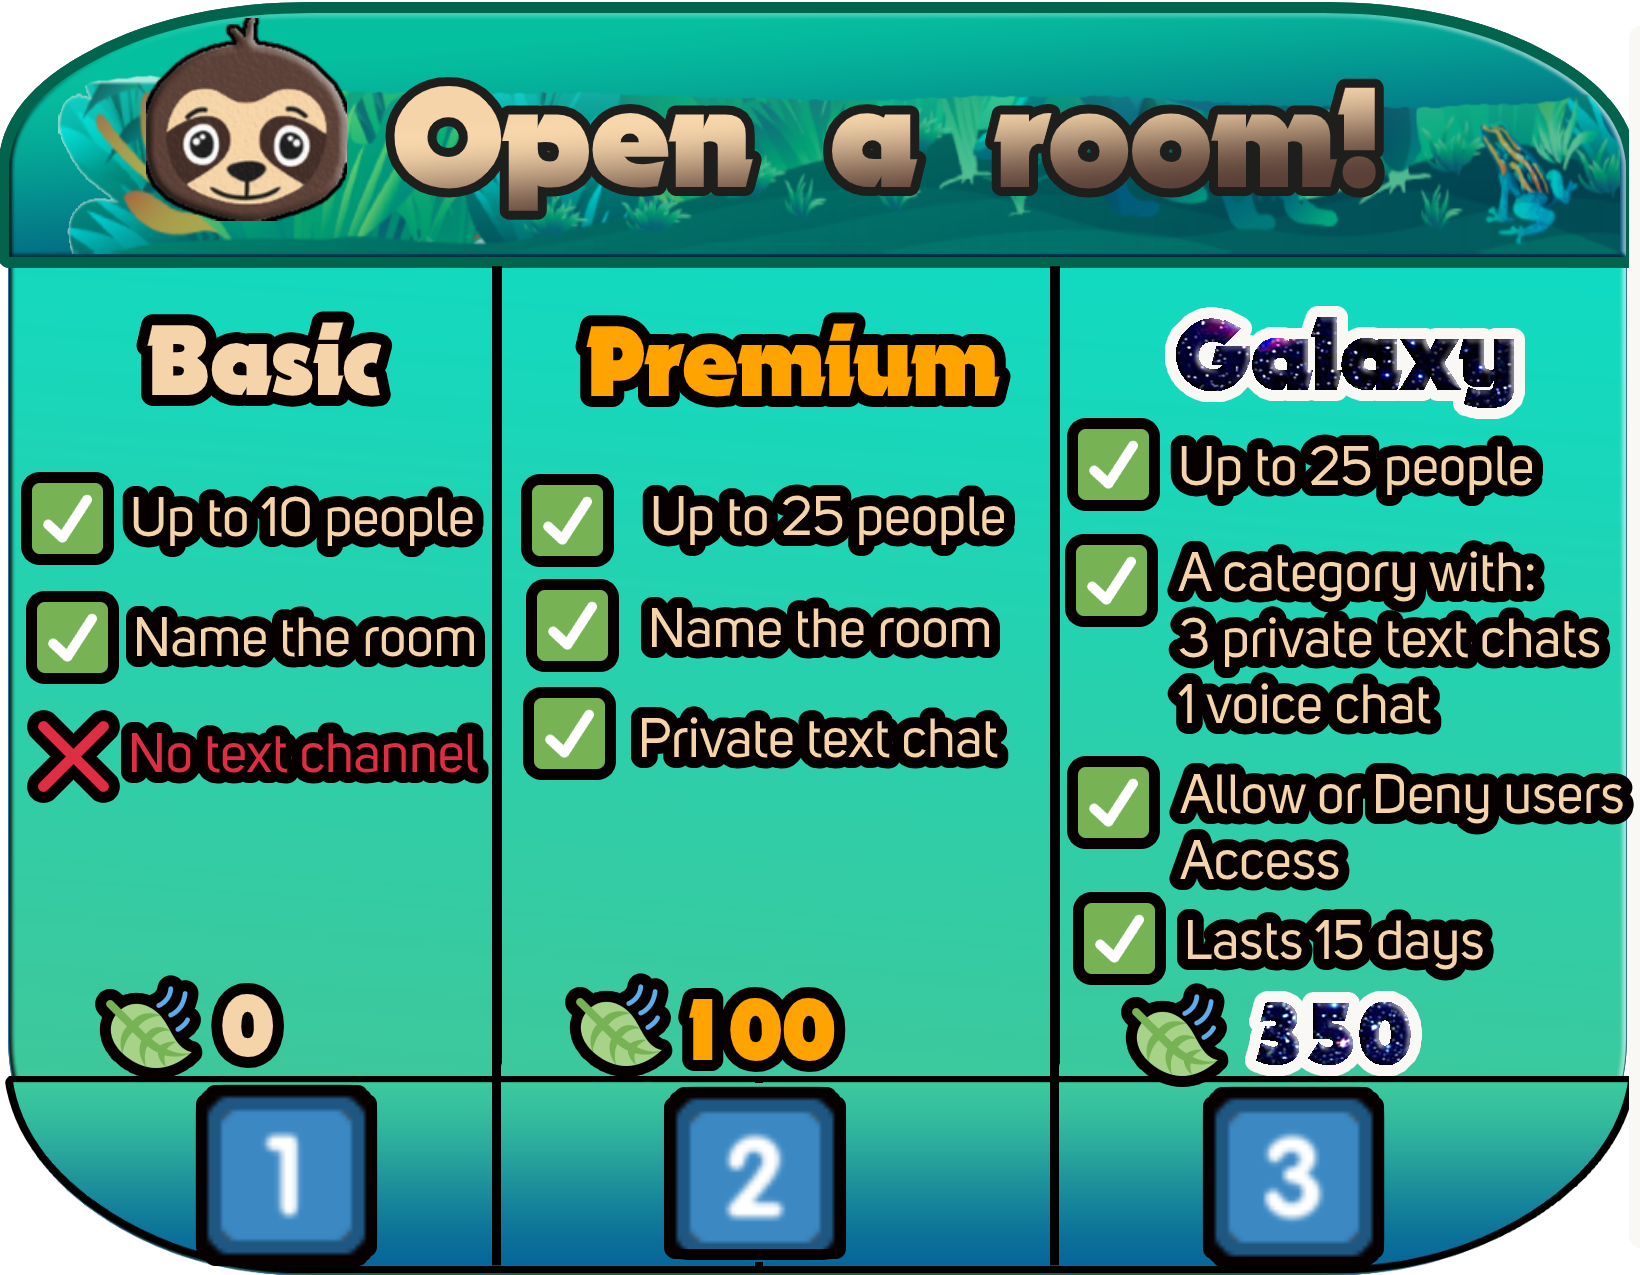
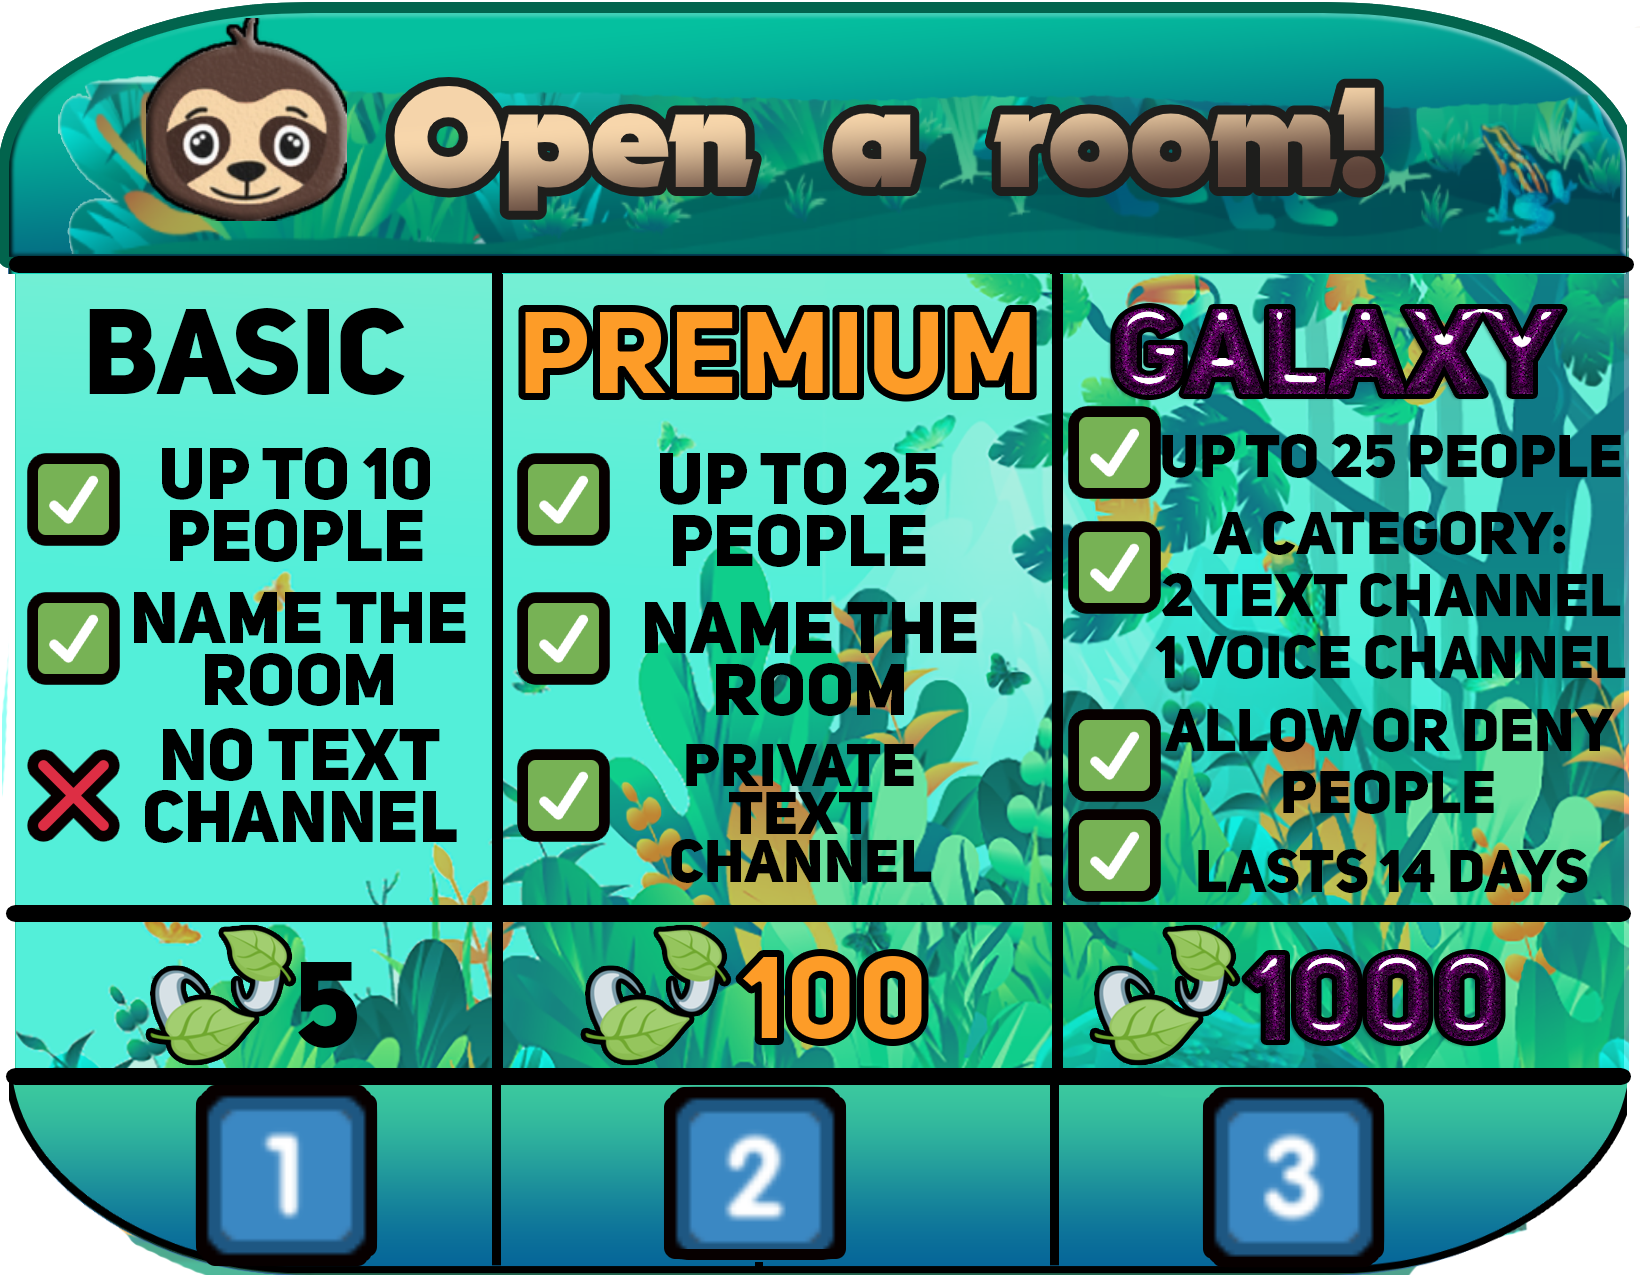
changing custom room creating things

diff --git a/cogs/createsmartroom.py b/cogs/createsmartroom.py
@@ -189,6 +189,19 @@ class CreateSmartRoom(commands.Cog):
 
 		# Confirm configurations
 		if str(reaction.emoji) == '✅':
+
+			# Checks if the user has money for it (5łł)
+			user_currency = await SlothCurrency.get_user_currency(member, member.id)
+			if user_currency:
+				if user_currency[0][1] >= 5:
+					await SlothCurrency.update_user_money(member, member.id, -5)
+				else:
+					return await member.send("**You don't have enough money to buy this service!**")
+
+			else:
+				return await member.send("**You don't even have an account yet!**")
+
+
 			# Gets the CreateSmartRoom category, creates the VC and tries to move the user to there
 			the_category_test = discord.utils.get(member.guild.categories, id=self.cat_id)
 			creation = await the_category_test.create_voice_channel(name=f"{name}", user_limit=limit)
@@ -392,22 +405,22 @@ class CreateSmartRoom(commands.Cog):
 		if txt2_name is None:
 			return
 
-		# Gets the name of the text channel 3
-		msg6 = await member.send(file=discord.File('./images/smart_vc/galaxy/3 select text chat 3.png'))
-		bot_msg = msg6
-		txt3_name = await self.get_response(member, check_cat_or_txt_name)
+		# # Gets the name of the text channel 3
+		# msg6 = await member.send(file=discord.File('./images/smart_vc/galaxy/3 select text chat 3.png'))
+		# bot_msg = msg6
+		# txt3_name = await self.get_response(member, check_cat_or_txt_name)
 
-		if txt3_name is None:
-			return
+		# if txt3_name is None:
+		# 	return
 
 		# Makes the preview image
 		#member_id, cat_name, txt1, txt2, txt3, vc, size
-		await self.make_preview_galaxy(member.id, category_name, txt1_name, txt2_name, txt3_name, vc_name, limit)
+		await self.make_preview_galaxy(member.id, category_name, txt1_name, txt2_name, vc_name, limit)
 		# Gets the configuration confirmation
-		msg7 = await member.send(file=discord.File(f'./images/smart_vc/user_previews/{member.id}.png'))
-		await msg7.add_reaction('✅')
-		await msg7.add_reaction('❌')
-		bot_msg = msg7
+		msg6 = await member.send(file=discord.File(f'./images/smart_vc/user_previews/{member.id}.png'))
+		await msg6.add_reaction('✅')
+		await msg6.add_reaction('❌')
+		bot_msg = msg6
 		reaction, user = await self.get_reaction_response(member, check_confirm)
 		if reaction is None:
 			return
@@ -420,11 +433,11 @@ class CreateSmartRoom(commands.Cog):
 			if has_galaxy:
 				return await member.send("**You already have a Galaxy category, you can't create more than one!**")
 
-			# Checks if the user has money (350łł)
+			# Checks if the user has money (1000łł)
 			user_currency = await SlothCurrency.get_user_currency(member, member.id)
 			if user_currency:
-				if user_currency[0][1] >= 350:
-					await SlothCurrency.update_user_money(member, member.id, -350)
+				if user_currency[0][1] >= 1000:
+					await SlothCurrency.update_user_money(member, member.id, -1000)
 				else:
 					return await member.send("**You don't have enough money to buy this service!**")
 
@@ -442,11 +455,11 @@ class CreateSmartRoom(commands.Cog):
 			vc_creation = await category_created.create_voice_channel(name=f"{vc_name}", user_limit=limit)
 			txt_creation1 = await category_created.create_text_channel(name=f"{txt1_name}")
 			txt_creation2 = await category_created.create_text_channel(name=f"{txt2_name}")
-			txt_creation3 = await category_created.create_text_channel(name=f"{txt3_name}")
+			# txt_creation3 = await category_created.create_text_channel(name=f"{txt3_name}")
 			# Inserts the channels in the database
 			epoch = datetime.utcfromtimestamp(0)
 			the_time = (datetime.utcnow() - epoch).total_seconds()
-			await self.insert_galaxy_vc(member.id, category_created.id, vc_creation.id, txt_creation1.id, txt_creation2.id, txt_creation3.id, the_time)
+			await self.insert_galaxy_vc(member.id, category_created.id, vc_creation.id, txt_creation1.id, txt_creation2.id, the_time)
 			await member.send(file=discord.File('./images/smart_vc/created.png'))
 			try:
 				await member.move_to(vc_creation)
@@ -513,13 +526,13 @@ class CreateSmartRoom(commands.Cog):
 		if int(size) != 0:
 			await self.overwrite_image_with_image(member_id, (405, 955), f'./images/smart_vc/sizes/voice channel ({size}).png')
 
-	async def make_preview_galaxy(self, member_id, cat_name, txt1, txt2, txt3, vc, size):
+	async def make_preview_galaxy(self, member_id, cat_name, txt1, txt2, vc, size):
 		preview_template = './images/smart_vc/galaxy/3 preview2.png'
 		color = (132, 142, 142)
 		await self.overwrite_image(member_id, cat_name, (545, 670), color, preview_template)
 		await self.overwrite_image(member_id, txt1.lower(), (585, 745), color, f'./images/smart_vc/user_previews/{member_id}.png')
 		await self.overwrite_image(member_id, txt2.lower(), (585, 835), color, f'./images/smart_vc/user_previews/{member_id}.png')
-		await self.overwrite_image(member_id, txt3.lower(), (585, 930), color, f'./images/smart_vc/user_previews/{member_id}.png')
+		# await self.overwrite_image(member_id, txt3.lower(), (585, 930), color, f'./images/smart_vc/user_previews/{member_id}.png')
 		await self.overwrite_image(member_id, vc, (585, 1020), color, f'./images/smart_vc/user_previews/{member_id}.png')
 		if int(size) != 0:
 			await self.overwrite_image_with_image(member_id, (405, 1015), f'./images/smart_vc/sizes/voice channel ({size}).png')
@@ -618,7 +631,7 @@ class CreateSmartRoom(commands.Cog):
 			return await ctx.send("**Table __GalaxyVc__ already exists!**")
 
 		mycursor, db = await the_database()
-		await mycursor.execute("CREATE TABLE GalaxyVc (user_id BIGINT, user_cat BIGINT, user_vc BIGINT, user_txt1 BIGINT, user_txt2 BIGINT, user_txt3 BIGINT, user_ts BIGINT, user_notified VARCHAR(3) default 'no')")
+		await mycursor.execute("CREATE TABLE GalaxyVc (user_id BIGINT, user_cat BIGINT, user_vc BIGINT, user_txt1 BIGINT, user_txt2 BIGINT, user_txt3 BIGINT DEFAULT NULL, user_ts BIGINT, user_notified VARCHAR(3) default 'no')")
 		await db.commit()
 		await mycursor.close()
 
@@ -668,9 +681,9 @@ class CreateSmartRoom(commands.Cog):
 		else:
 			return True
 
-	async def insert_galaxy_vc(self, user_id: int, user_cat: int, user_vc: int, user_txt1: int, user_txt2: int, user_txt3: int, user_ts: int):
+	async def insert_galaxy_vc(self, user_id: int, user_cat: int, user_vc: int, user_txt1: int, user_txt2: int, user_ts: int):
 		mycursor, db = await the_database()
-		await mycursor.execute("INSERT INTO GalaxyVc (user_id, user_cat, user_vc, user_txt1, user_txt2, user_txt3, user_ts) VALUES (%s, %s, %s, %s, %s, %s, %s)", (user_id, user_cat, user_vc, user_txt1, user_txt2, user_txt3, user_ts))
+		await mycursor.execute("INSERT INTO GalaxyVc (user_id, user_cat, user_vc, user_txt1, user_txt2, user_ts) VALUES (%s, %s, %s, %s, %s, %s)", (user_id, user_cat, user_vc, user_txt1, user_txt2, user_ts))
 		await db.commit()
 		await mycursor.close()
 
@@ -760,7 +773,7 @@ class CreateSmartRoom(commands.Cog):
 
 	async def update_user_vc_ts(self, user_id: int, new_ts: int):
 		mycursor, db = await the_database()
-		await mycursor.execute(f"UPDATE UserVCstamp SET user_vc_ts = {new_ts} WHERE user_id = {user_id}")
+		await mycursor.execute("UPDATE UserVCstamp SET user_vc_ts = %s WHERE user_id = %s", (new_ts, user_id))
 		await db.commit()
 		await mycursor.close()
 

diff --git a/cogs/show.py b/cogs/show.py
@@ -123,7 +123,6 @@ class Show(commands.Cog):
 
 
     @commands.command(aliases=['ss'])
-    @commands.has_permissions()
     @commands.cooldown(1, 10, commands.BucketType.user)
     async def server_status(self, ctx) -> None:
         """ Shows some server statuses. """
